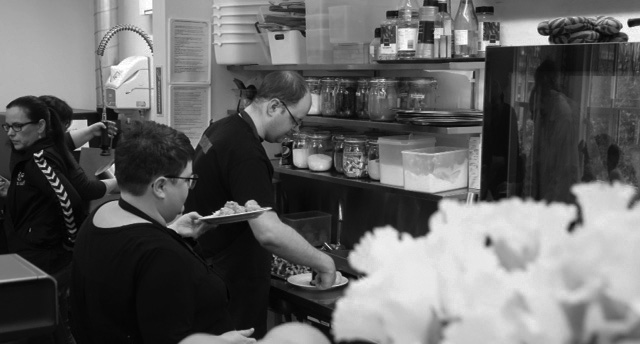
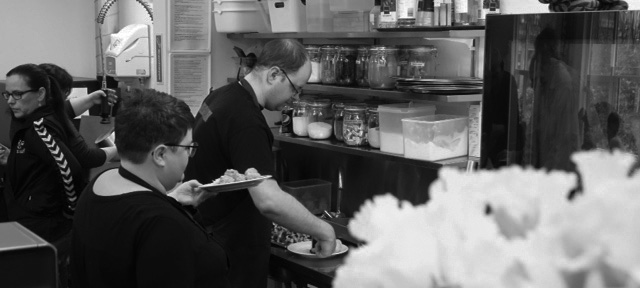
Om os - Vores Team
Underside til "om os"

diff --git a/voresteam.html b/voresteam.html
@@ -1,0 +1,68 @@
+<!DOCTYPE html>
+<html lang="da">
+
+<head>
+    <meta charset="UTF-8">
+    <meta name="Café Parasollen" content="Om Café Parasollen">
+    <meta name="keywords" content="cafe parasollen, social cafe, cafe viby">
+    <meta name="Frederikke Ravn" content="Om Café Parasollen">
+    <meta name="viewport" content="width=device-width, initial-scale=1.0">
+    <meta http-equiv="X-UA-Compatible" content="ie=edge">
+    <link rel="stylesheet" href="css/style.css">
+    <link href='https://fonts.googleapis.com/css?family=Dosis' rel='stylesheet'>
+    <link href='https://fonts.googleapis.com/css?family=Allan' rel='stylesheet'>
+    <title>Cafe Parasollen - Om Café Parasollen</title>
+</head>
+
+<body>
+    <header></header>
+
+    <img id="banner" src="images/frivillige.JPG">
+
+    <h1 id="heading">Vores team</h1>
+
+    <div class="text">
+        <p>Café Parasollen er en selvejende institution med egen bestyrelse, og drives af frivillige medarbejdere sammen med nogle få ansatte. Der er cirka 40 forskellige frivillige, som i hold af 4-5 timers vagter løser dagens opgaver, det være sig madlavning, bagning, fremstilling af smørebrød, rengøring og ikke mindst samvær og samtale med gæsterne.</p>
+        <p>De frivillige rekrutteres bredt, derudover består gruppen af personer i jobtræning, arbejdsprøvning, samfundstjeneste og forskellige praktikforløb. Til caféen er knyttet forskellige projekter og der er skiftende kunstudstillinger samt en række aktiviteter.</p>
+    </div>
+
+    <h2 id="heading">Fast ansatte</h2>
+
+    <div class="flex-container">
+        <div class="flex-item-left">
+            <img class="ansat" src="images/Allan.png">
+        </div>
+
+        <div class="flex-item-middle">
+            <img class="ansat" src="images/Thomas.png">
+        </div>
+
+        <div class="flex-item-right">
+            <img class="ansat" src="images/Kristen.png">
+        </div>
+    </div>
+
+    <div class="flex-container">
+        <div class="flex-item-left">
+            <img class="ansat" src="images/Frivillig-1.png">
+        </div>
+
+        <div class="flex-item-middle">
+            <img class="ansat" src="images/Frivillig-2.png">
+        </div>
+
+        <div class="flex-item-right">
+            <img class="ansat" src="images/Frivillig-3.png">
+        </div>
+    </div>
+
+</body>
+
+<footer>
+</footer>
+
+<!-- load jQuery library -->
+<script src="https://code.jquery.com/jquery-3.3.1.min.js" integrity="sha256-FgpCb/KJQlLNfOu91ta32o/NMZxltwRo8QtmkMRdAu8=" crossorigin="anonymous"></script>
+
+<!-- load JavaScript -->
+<script src="js/js.js"></script></html>

diff --git a/css/style.css b/css/style.css
@@ -4,11 +4,12 @@
 
 body {
     background-color: whitesmoke;
+    font-family: 'Helvetica';
 }
 
 /* Om os start */
 
-#banner1 {
+#banner {
     width: 100%;
     margin-bottom: 5em;
 }
@@ -26,7 +27,6 @@ body {
     margin-left: auto;
     margin-right: auto;
     margin-bottom: 5em;
-    font-family: 'Arial';
     font-size: 20px;
     text-align: left;
     width: 50%;
@@ -36,28 +36,36 @@ body {
     display: block;
     margin-left: auto;
     margin-right: auto;
-    width: 100%;
+    width: 50%;
+    margin-bottom: 1em;
+}
+
+#aarsrapport {
+    padding: 60px;
 }
 
 * {
-  box-sizing: border-box;
+    box-sizing: border-box;
 }
 
 .flex-container {
-  display: flex;
-  flex-direction: row;
-  font-size: 30px;
-  text-align: center;
+    display: flex;
+    flex-direction: row;
 }
 
 .flex-item-left {
-  padding: 60px;
-  flex: 50%;
+    padding: 10px;
+    flex: 50%;
+}
+
+.flex-item-middle {
+    padding: 10px;
+    flex: 50%;
 }
 
 .flex-item-right {
-  padding: 10px;
-  flex: 50%;
+    padding: 10px;
+    flex: 50%;
 }
 
 
@@ -69,7 +77,6 @@ body {
     display: block;
     margin-left: auto;
     margin-right: auto;
-    font-family: 'Arial';
     font-size: 20px;
     text-align: center;
     width: 50%;
@@ -84,11 +91,15 @@ a:hover {
     color: crimson;
 }
 
+.ansat {
+    width: 100%;
+}
+
 /* Responsive layout - makes a one column-layout instead of two-column layout */
 @media (max-width: 800px) {
-  .flex-container {
-    flex-direction: column;
-  }
+    .flex-container {
+        flex-direction: column;
+    }
 }
 
 /* Om os slut */

diff --git a/omos.html b/omos.html
@@ -11,15 +11,13 @@
     <link rel="stylesheet" href="css/style.css">
     <link href='https://fonts.googleapis.com/css?family=Dosis' rel='stylesheet'>
     <link href='https://fonts.googleapis.com/css?family=Allan' rel='stylesheet'>
-    <script src="https://api.mapbox.com/mapbox-gl-js/v1.12.0/mapbox-gl.js"></script>
-    <link href="https://api.mapbox.com/mapbox-gl-js/v1.12.0/mapbox-gl.css" rel="stylesheet" />
     <title>Cafe Parasollen - Om Café Parasollen</title>
 </head>
 
 <body>
     <header></header>
 
-    <img id="banner1" src="images/cafe%20parasollen.jpg">
+    <img id="banner" src="images/cafeparasollen.jpg">
 
     <h1 id="heading">Om Café Parasollen</h1>
 
@@ -33,7 +31,7 @@
         <p>• Det både er "kirkens dagligstue" og "mors køkken".</p>
     </div>
 
-    <img id="image1" src="images/omos500.png">
+    <img id="image1" src="images/omos1000.png">
     <p class="text">Vores overordnede værdier er at på den danske folkekirkes grund at yde en diakonal og social indsats og bidrage til at skabe værdige kår for mennesker i udsatte livssituationer.
     </p>
 
@@ -43,7 +41,7 @@
 
     <div class="flex-container">
         <div class="flex-item-left">
-            <a href="https://issuu.com/karaskommunikation/docs/cafe_parasollen_2019-20_5"><img src="images/aarsrapport.jpg"></a>
+            <a href="https://issuu.com/karaskommunikation/docs/cafe_parasollen_2019-20_5"><img id="aarsrapport" src="images/aarsrapport.jpg"></a>
         </div>
         
         <div class="flex-item-right">
